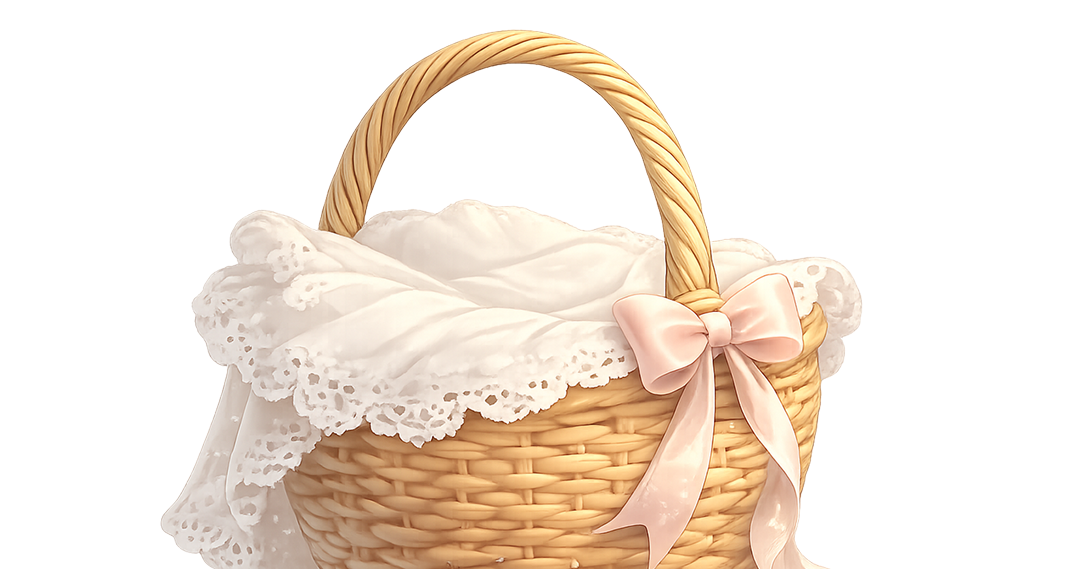
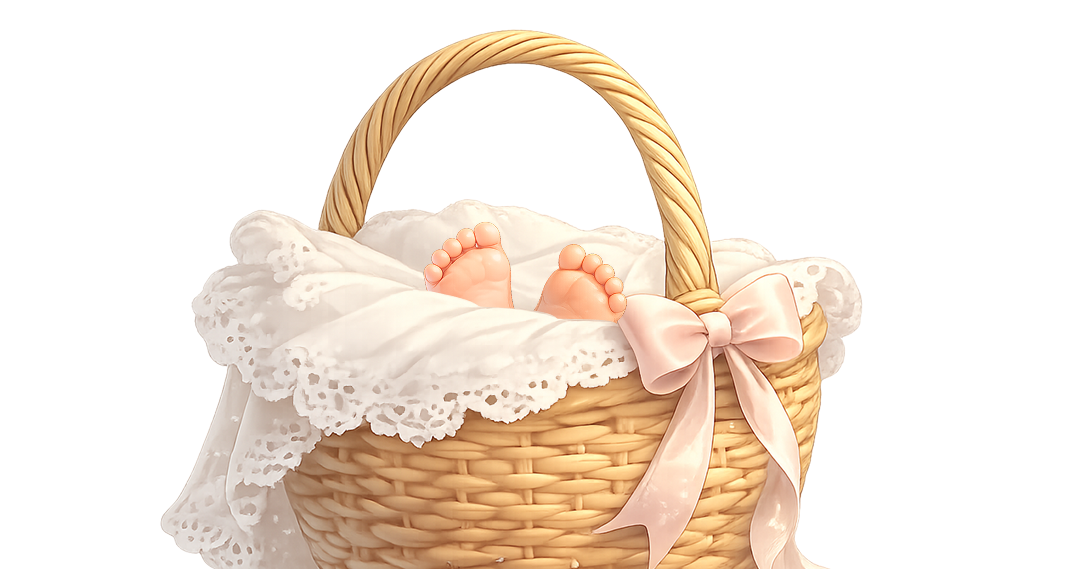
second-update

Changed region(s): [[0.395, 0.3884, 0.5773, 0.5677]]

diff --git a/components/scenes/IntroScene.tsx b/components/scenes/IntroScene.tsx
@@ -31,13 +31,19 @@ function IntroScene({ isLocked, onNext }: SceneComponentProps) {
             transition={{ duration: 0.7, ease: [0.22, 1, 0.36, 1], delay: .5 }}
           >
             Поздравляем
-            <br />
+
+          </motion.p>
+          <motion.p
+            initial={{ opacity: 0, y: 36 }}
+            animate={{ opacity: 1, y: 0 }}
+            transition={{ duration: 0.7, ease: [0.22, 1, 0.36, 1], delay: .75 }}
+          >
             с рождением
           </motion.p>
           <motion.span
             initial={{ opacity: 0, rotate: 0, y: 0, x: 0 }}
             animate={{ opacity: 1, rotate: -10, y: -30, x: -15 }}
-            transition={{ duration: 0.5, ease: [0.22, 1, 0.36, 1], delay: 1 }}
+            transition={{ duration: 0.75, ease: [0.22, 1, 0.36, 1], delay: 1.25 }}
           >
             дочки
           </motion.span>
@@ -58,7 +64,7 @@ function IntroScene({ isLocked, onNext }: SceneComponentProps) {
       <motion.div className="scene__image"
         initial={{ opacity: 0, y: 100, x: '-50%' }}
         animate={{ opacity: 1, y: 0, x: '-50%' }}
-        transition={{ duration: .75, delay: 1 }}
+        transition={{ duration: .75, delay: 1.5 }}
       >
         <Image src={'/child.png'} loading="eager" width={1000} height={700} alt="Ребенок" />
       </motion.div>
